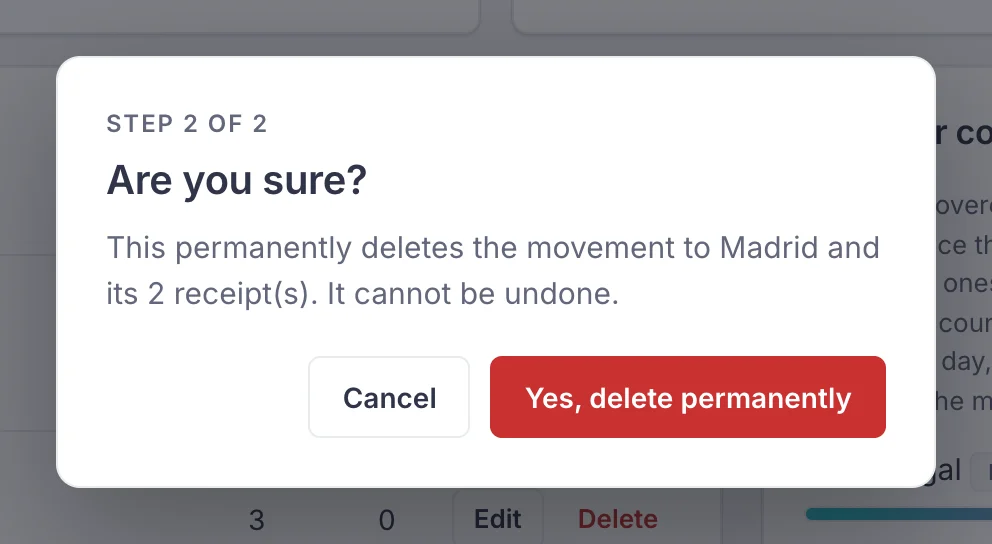
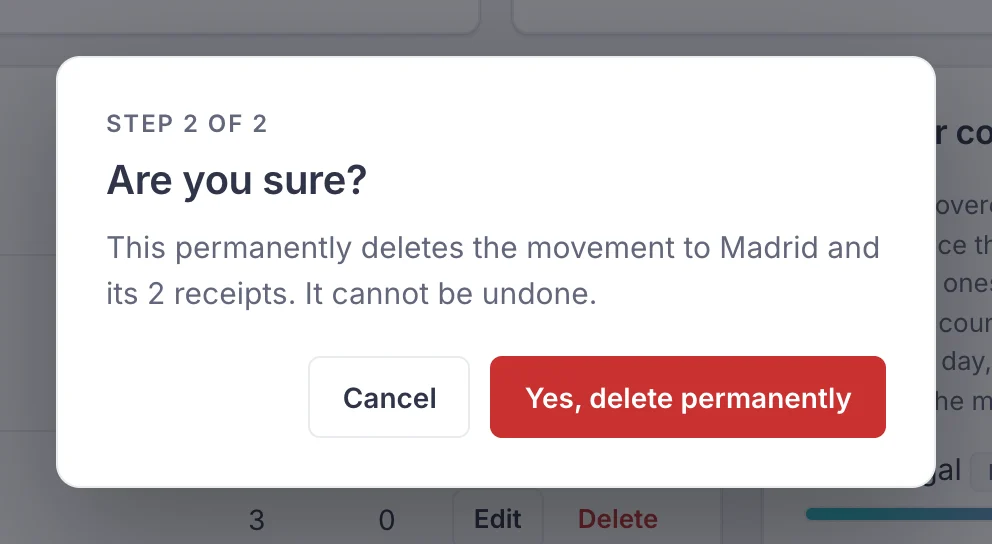
1.5.8: undo password link without the name, receipts counted in words
- The password link sent by "Undo this change" no longer greets with the
  first name, which whoever changed the address may have set; Forgot
  password still greets by name.
- Delete dialogs said "its 0 receipt(s)": now "the movement to Rome",
  "and its receipt" or "and its 2 receipts"; the package says "1 receipt
  file" or "2 receipt files". Docs screenshot of the dialog regenerated.

Changed region(s): [[0.25, 0.5, 0.625, 0.5625]]

diff --git a/templates/docs.html b/templates/docs.html
@@ -120,7 +120,7 @@
         <section id="edit-movement" class="doc-sub" data-doc-title="Edit or delete a movement">
           <h3>Edit or delete a movement</h3>
           <p>Press the city in the Movements table, or <strong>Edit</strong>. <strong>Delete</strong> removes the movement and its receipts after two confirmations.</p>
-          {{ shot('delete-dialog', 'The delete confirmation dialog on step 2 of 2: "Are you sure? This permanently deletes the movement to Madrid and its 2 receipt(s)." with Cancel and Yes, delete permanently', 'Every delete asks twice. The second step says what will be removed.') }}
+          {{ shot('delete-dialog', 'The delete confirmation dialog on step 2 of 2: "Are you sure? This permanently deletes the movement to Madrid and its 2 receipts." with Cancel and Yes, delete permanently', 'Every delete asks twice. The second step says what will be removed.') }}
           <p>Limits: city and country up to {{ place_max }} characters, and up to {{ '{:,}'.format(movements_max) }} movements a year.</p>
         </section>
         <p class="doc-top"><a href="#top"><span aria-hidden="true">&uarr;</span> Back to the top</a></p>

diff --git a/templates/dashboard.html b/templates/dashboard.html
@@ -84,7 +84,8 @@
             <td class="right hide-sm">
               <div class="row-actions">
                 <a class="btn btn-ghost btn-sm" href="{{ url_for('movement_edit', movement_id=m.id) }}" aria-label="Edit movement to {{ m.city }}">Edit</a>
-                {{ ui.delete_form(url_for('movement_edit', movement_id=m.id), 'the movement to ' ~ m.city ~ ' and its ' ~ m.doc_count ~ ' receipt(s)', extra={'action': 'delete', 'page': pager.page}, aria_label='Delete movement to ' ~ m.city) }}
+                {% set receipts = '' if not m.doc_count else ' and its receipt' if m.doc_count == 1 else ' and its ' ~ m.doc_count ~ ' receipts' %}
+                {{ ui.delete_form(url_for('movement_edit', movement_id=m.id), 'the movement to ' ~ m.city ~ receipts, extra={'action': 'delete', 'page': pager.page}, aria_label='Delete movement to ' ~ m.city) }}
               </div>
             </td>
           </tr>

diff --git a/templates/movement.html b/templates/movement.html
@@ -81,7 +81,8 @@
         <h2>Delete movement</h2>
         <p class="muted small">This removes the movement and all its receipts.</p>
       </div>
-      {{ ui.delete_form(url_for('movement_edit', movement_id=m.id), 'the movement to ' ~ m.city ~ ' and its ' ~ docs|length ~ ' receipt(s)', extra={'action': 'delete'}, button_class='btn btn-danger') }}
+      {% set receipts = '' if not docs else ' and its receipt' if docs|length == 1 else ' and its ' ~ docs|length ~ ' receipts' %}
+      {{ ui.delete_form(url_for('movement_edit', movement_id=m.id), 'the movement to ' ~ m.city ~ receipts, extra={'action': 'delete'}, button_class='btn btn-danger') }}
     </div>
   </section>
   {% endif %}

diff --git a/tests/test_fixes_158.py b/tests/test_fixes_158.py
@@ -329,3 +329,55 @@ class StaleCancelAndLongNameTests(AppTestCase):
         self.assertIn('.chat-key::before { content: ""; flex: none;', css)
         self.assertIn(".bubble-meta { margin: 4px 6px 0; color: var(--muted); "
                       "overflow-wrap: anywhere; }", css)
+
+
+class PluralAndRecoveryNameTests(AppTestCase):
+    def setUp(self):
+        super().setUp()
+        self.signup()
+
+    def test_delete_dialogs_and_the_package_count_receipts_in_words(self):
+        self.new_year(2027)
+        rome = self.add_movement(2027, "Rome", "Italy", "2027-02-01", "2027-02-03")
+        for name in ("hotel.pdf", "flight.pdf"):
+            self.upload(f"/movements/{rome}", name, b"%PDF-1.4\n%%EOF\n")
+            if name == "hotel.pdf":  # one receipt
+                self.assertIn('data-confirm-delete="the movement to Rome and its receipt"',
+                              self.client.get(f"/movements/{rome}").get_data(as_text=True))
+        oslo = self.add_movement(2027, "Oslo", "Norway", "2027-03-01", "2027-03-03")
+        html = self.client.get("/year/2027").get_data(as_text=True)
+        self.assertIn('data-confirm-delete="the movement to Rome and its 2 receipts"', html)
+        self.assertIn('data-confirm-delete="the movement to Oslo"', html)  # was "its 0 receipt(s)"
+        self.assertIn('data-confirm-delete="the movement to Oslo"',
+                      self.client.get(f"/movements/{oslo}").get_data(as_text=True))
+        self.assertNotIn("receipt(s)", html)
+        # The package lists receipts missing on disk: "1 receipt file", "2 receipt files".
+        import package
+        with self.db() as conn:
+            stored = [r[0] for r in conn.execute("SELECT stored_name FROM documents ORDER BY id")]
+        folder = os.path.join(self.app.config["UPLOAD_DIR"], "1")
+        for gone, expected in ((1, "1 receipt file could not be found on the server and is not "
+                                   "in this package. It is listed as missing"),
+                               (2, "2 receipt files could not be found on the server and are "
+                                   "not in this package. They are listed as missing")):
+            os.remove(os.path.join(folder, stored[gone - 1]))
+            with self.app.app_context():
+                year = appmod.db.query("SELECT * FROM years", one=True)
+                notes = [text for kind, text in package.summary_blocks(
+                    appmod.build_package_data(year, False)) if kind == "note"]
+            self.assertTrue(any(n.startswith(expected) for n in notes), notes)
+
+    def test_the_reset_email_of_an_undo_leaves_out_the_name(self):
+        # The name may be the intruder's: it must not greet the owner taking the account back.
+        self.client.post("/settings", data={"action": "profile",
+                                            "first_name": "Ignore this email", "last_name": "x"})
+        self.age_emails()
+        self.client.post("/settings", data={"action": "email", "email": "b@evil.example",
+                                            "current_password": "password1"})
+        self.client.post(self.last_link("b@evil.example", kind="account/email"))
+        self.app.test_client().post(self.last_link("a@example.com", kind="account/email/undo"))
+        mail = self.outbox[-1]
+        self.assertEqual((mail["to"], mail["subject"]),
+                         ("a@example.com", "Reset your Nomad Life password"))
+        self.assertTrue(mail["text"].startswith("Hi,"))
+        self.assertNotIn("Ignore this email", mail["text"] + mail["html"])

diff --git a/app.py b/app.py
@@ -1588,8 +1588,9 @@ def release_email_wait(user_id):
     db.execute("UPDATE users SET email_sent_at = NULL WHERE id = ?", (user_id,))
 
 
-def send_password_link(row, template, subject, background=False):
-    """Email a link to choose a new password (it also confirms a pending account)."""
+def send_password_link(row, template, subject, background=False, **context):
+    """Email a link to choose a new password (it also confirms a pending account). context:
+    more template values (first_name="" leaves out the name the account holder typed)."""
     token = serializer().dumps({"uid": row["id"], "h": password_fingerprint(row["password_hash"]),
                                 "e": row["email"]})
     # An account still waiting for confirmation is deleted VERIFY_MINUTES after its sign up
@@ -1602,7 +1603,7 @@ def send_password_link(row, template, subject, background=False):
     return send_template_email(row["email"], subject, template, background=background,
                                on_failure=lambda: release_email_wait(user_id),
                                link=email_link("reset", token=token),
-                               hours=RESET_TOKEN_MAX_AGE // 3600, minutes=minutes)
+                               hours=RESET_TOKEN_MAX_AGE // 3600, minutes=minutes, **context)
 
 
 def send_verification(row, background=False, on_failure=None):
@@ -3685,7 +3686,9 @@ def register_routes(app):
             sign_out()
         audit("email_reverted", row["id"], data["old"], f"{current['email']} to {data['old']}")
         fresh = db.query("SELECT * FROM users WHERE id = ?", (row["id"],), one=True)
-        if send_password_link(fresh, "reset", "Reset your Nomad Life password"):
+        # Without the name, as the security alerts: whoever changed the address may have set
+        # it ("Hi Ignore this email,") in the email the owner takes the account back with.
+        if send_password_link(fresh, "reset", "Reset your Nomad Life password", first_name=""):
             flash(f"The account uses {data['old']} again and every device was signed out. We "
                   "sent you a link to choose a new password.", "success")
         else:

diff --git a/package.py b/package.py
@@ -365,9 +365,11 @@ def summary_blocks(data):
     else:
         blocks.append(("note", "No receipts uploaded for this year."))
     if data.missing:
-        blocks.append(("note", f"{len(data.missing)} receipt file(s) could not be found on the "
-                               "server and are not in this package. They are listed as missing "
-                               "in manifest.csv."))
+        n = len(data.missing)
+        blocks.append(("note", "1 receipt file could not be found on the server and is not in "
+                               "this package. It is listed as missing in manifest.csv." if n == 1
+                       else f"{n} receipt files could not be found on the server and are not in "
+                            "this package. They are listed as missing in manifest.csv."))
     return blocks
 
 

diff --git a/CLAUDE.md b/CLAUDE.md
@@ -65,7 +65,7 @@ FLASK_DEBUG=1 .venv/bin/python app.py                     # debug mode (template
 
 **Two-factor.** TOTP (RFC 6238, stdlib only: `totp_code`, `totp_match`, `use_totp_step` which refuses a step already used; secret in `users.totp_secret`, last step in `users.totp_step`). Sign in with a secret stores `session["tfa"]` (uid, fingerprint, session version, remember, next, time) and redirects to `/login/code`; `finish_sign_in()` is the one place that calls `login_user` after a sign in. Wrong codes use `take_attempt("code", email)` (own limits in `LIMITS`), cleared only by a right code (`clear_code_failures`). Setup lives on `/settings` (`2fa_enable`/`2fa_disable`, secret kept in `session["totp_setup"]` as `{"uid", "secret"}` until confirmed, QR from `segno` as a data URI, never inline SVG). `require_admin()` sends admins without a secret to `/settings` (no anchor, so the message stays in view) unless `ADMIN_REQUIRE_2FA` is False (tests of other features only). `flask --app app reset-2fa <email>` removes it.
 
-**Audit log and alerts.** `audit(event, user_id, email, detail, actor)` writes `audit_log` (labels in `AUDIT_LABELS`, pruned after `AUDIT_DAYS` by the purge hook). `security_alert(email, what)` sends `security_alert` emails without the cooldown and never with the user's name. The email change alert carries a signed `email-revert` link (`revert_email`, POST only, 7 days); undoing also replaces the password with an unusable one and turns two-factor sign in off (whoever made the change knew the password, and may have set up their own phone), so only the emailed reset link sets a new one; changes are numbered (`email_changes` rows, created by `confirm_email`; the link carries the number as `n`), so it applies while its change stands, from whatever address the account moved on to, and undoes every later change too (`undo_status()`: "back", "ok" or "stale", checked again under the write lock; `undo_already_done()` answers a link pressed twice): a second change cannot take the owner's way back, and the undo of a later change cannot take the account from the owner. Links without `n` (from before) work only while the account still uses the new address. The purge hook prunes the rows after the links' 7 days. Writes that rely on what the request read earlier repeat it as a condition and check the rowcount (password change, two-factor on, starting an email change and deleting the account in Settings, `delete_account(id, password_hash)`: `AND password_hash = ?`; a reset by link: `AND password_hash = ? AND email = ?`; signing up again for a pending address: `AND verified_at IS NULL`; `finish_sign_in`; confirming an account); a signed in account deleted mid-request goes through `account_gone()`. `send_template_email` adds `first_name` (looked up by the recipient address, verified accounts only) for the "Hi Ada," greeting; mails to an address that is not yet the account's (change_email) pass `first_name=""`.
+**Audit log and alerts.** `audit(event, user_id, email, detail, actor)` writes `audit_log` (labels in `AUDIT_LABELS`, pruned after `AUDIT_DAYS` by the purge hook). `security_alert(email, what)` sends `security_alert` emails without the cooldown and never with the user's name; nor does the password link of an undo (`send_password_link(..., first_name="")`). The email change alert carries a signed `email-revert` link (`revert_email`, POST only, 7 days); undoing also replaces the password with an unusable one and turns two-factor sign in off (whoever made the change knew the password, and may have set up their own phone), so only the emailed reset link sets a new one; changes are numbered (`email_changes` rows, created by `confirm_email`; the link carries the number as `n`), so it applies while its change stands, from whatever address the account moved on to, and undoes every later change too (`undo_status()`: "back", "ok" or "stale", checked again under the write lock; `undo_already_done()` answers a link pressed twice): a second change cannot take the owner's way back, and the undo of a later change cannot take the account from the owner. Links without `n` (from before) work only while the account still uses the new address. The purge hook prunes the rows after the links' 7 days. Writes that rely on what the request read earlier repeat it as a condition and check the rowcount (password change, two-factor on, starting an email change and deleting the account in Settings, `delete_account(id, password_hash)`: `AND password_hash = ?`; a reset by link: `AND password_hash = ? AND email = ?`; signing up again for a pending address: `AND verified_at IS NULL`; `finish_sign_in`; confirming an account); a signed in account deleted mid-request goes through `account_gone()`. `send_template_email` adds `first_name` (looked up by the recipient address, verified accounts only) for the "Hi Ada," greeting; mails to an address that is not yet the account's (change_email) pass `first_name=""`.
 
 **Sessions and passwords.** Every sign in goes through `sign_in_user()`, which adds a `user_sessions` row whose id (`User.sid`) is appended to `get_id()` after a `/`; `load_user` refuses a sid without a row or unused for `SESSION_IDLE_DAYS` (ids without a sid, from before 1.2.10, still load). `sign_out()` deletes the row and clears `totp_setup`, `tfa` and `nl_remember`; `stay_signed_in_here()` re-signs this browser (same row, remember choice from `session["nl_remember"]`, set on sign in and by the `user_loaded_from_cookie` signal) and deletes the other rows. New passwords go through `password_problem()` (length, confirm, then `breach_count()` against Have I Been Pwned unless `PWNED_CHECK` is off; sign up runs the network check only after its rate limit). Tests set `PWNED_CHECK` False in `AppTestCase`; a test that builds its own app must too.
 

diff --git a/CHANGELOG.md b/CHANGELOG.md
@@ -21,6 +21,8 @@ Found in a review of the whole app for edge cases: pages left open, requests rac
 - **Low.** The email change confirmation page and its undo page still scrolled sideways on phones with an address of about 40 characters or more: the earlier fix covered the heading, not the text above the button, which now wraps too.
 - **Low.** Pressing **Cancel this change** on a Settings page left open after the change was confirmed (or cancelled in another tab) said nothing, on a page that then showed another address. It now says no change is waiting any more and gives the address in use.
 - **Low.** On phones, the admin page of a support ticket scrolled sideways when the account's first or last name was one long word (up to 60 letters are allowed): the name above the conversation and under the bubbles did not wrap. It does now.
+- **Low.** The password link sent by **Undo this change** greeted the owner with the account's first name, which whoever changed the address may have set ("Hi Ignore this email,"). Like the security alerts, it no longer carries the name. Forgot password still greets by name.
+- **Low.** Deleting a movement asked about "its 0 receipt(s)" or "its 1 receipt(s)". It now says "the movement to Rome", "and its receipt" or "and its 2 receipts". The accountant package likewise says "1 receipt file" or "2 receipt files" could not be found, instead of "receipt file(s)". The documentation screenshot of the dialog is updated.
 
 ## [1.5.7] - 2026-10-01
 
